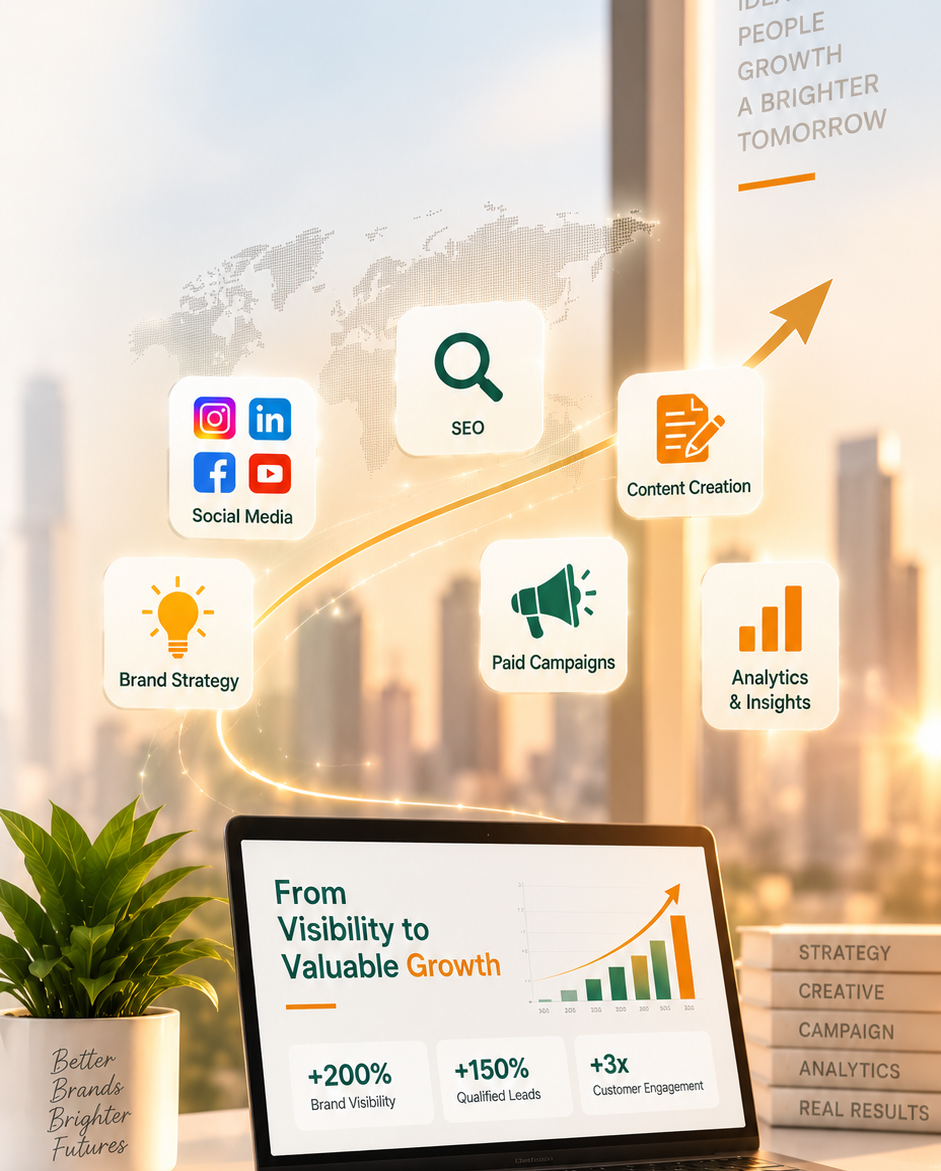
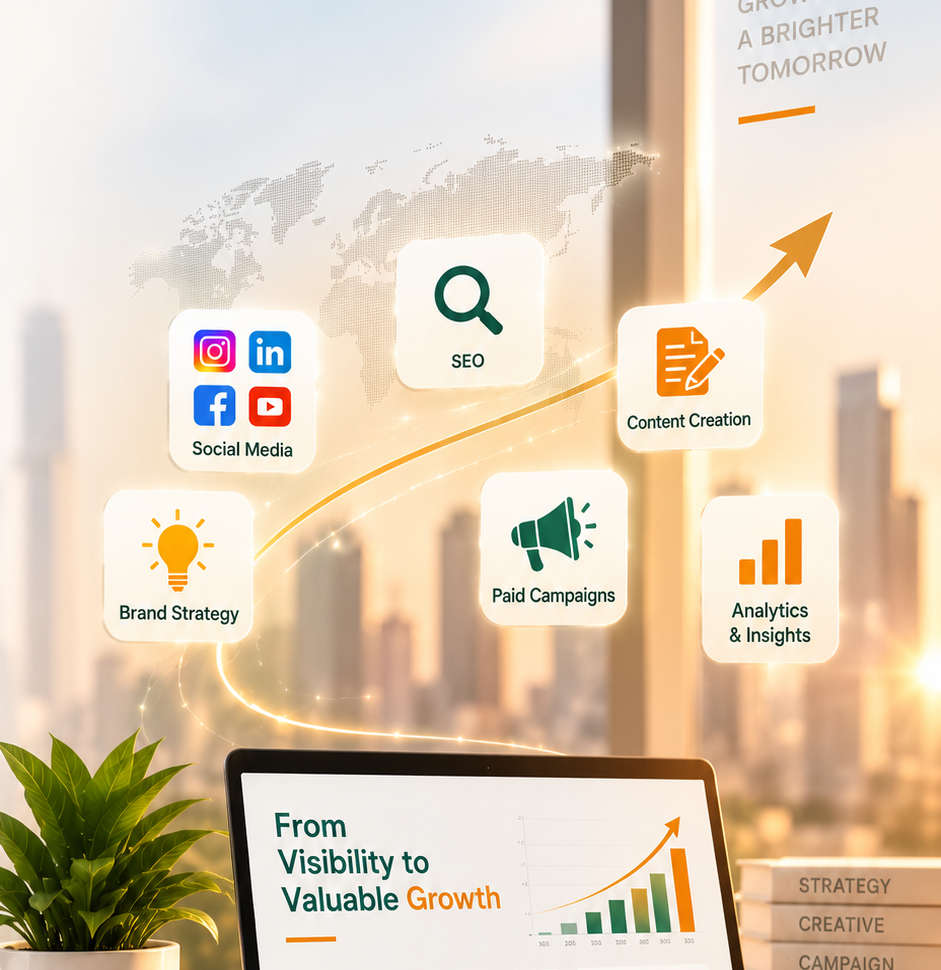
REcropped the image

diff --git a/components/services/DigitalMarketingInteractivePage.tsx b/components/services/DigitalMarketingInteractivePage.tsx
@@ -534,13 +534,13 @@ export function DigitalMarketingInteractivePage({ service, relatedPosts }: Digit
 
               {/* Dedicated Cropped Mobile Hero Image Card (Mobile/Tablet Viewports < 1024px) */}
               <AnimatedSection delay={0.12} className="w-full lg:hidden my-3">
-                <div className="relative w-full aspect-[941/1171] max-w-md mx-auto rounded-2xl border-2 border-[#f7d7b0] dark:border-[#1a1a1a] bg-white dark:bg-[#0a0a0a] overflow-hidden shadow-xl">
+                <div className="relative w-full aspect-[941/970] rounded-2xl border-2 border-[#f7d7b0] dark:border-[#1a1a1a] bg-white dark:bg-[#0a0a0a] overflow-hidden shadow-xl">
                   <Image
                     src="/images/digital-marketing-mobile-hero.png"
                     alt="Digital Marketing &amp; Brand Development Strategy"
                     fill
                     priority
-                    className="object-contain"
+                    className="object-cover object-center"
                     sizes="(max-width: 1024px) 100vw, 50vw"
                   />
                 </div>
